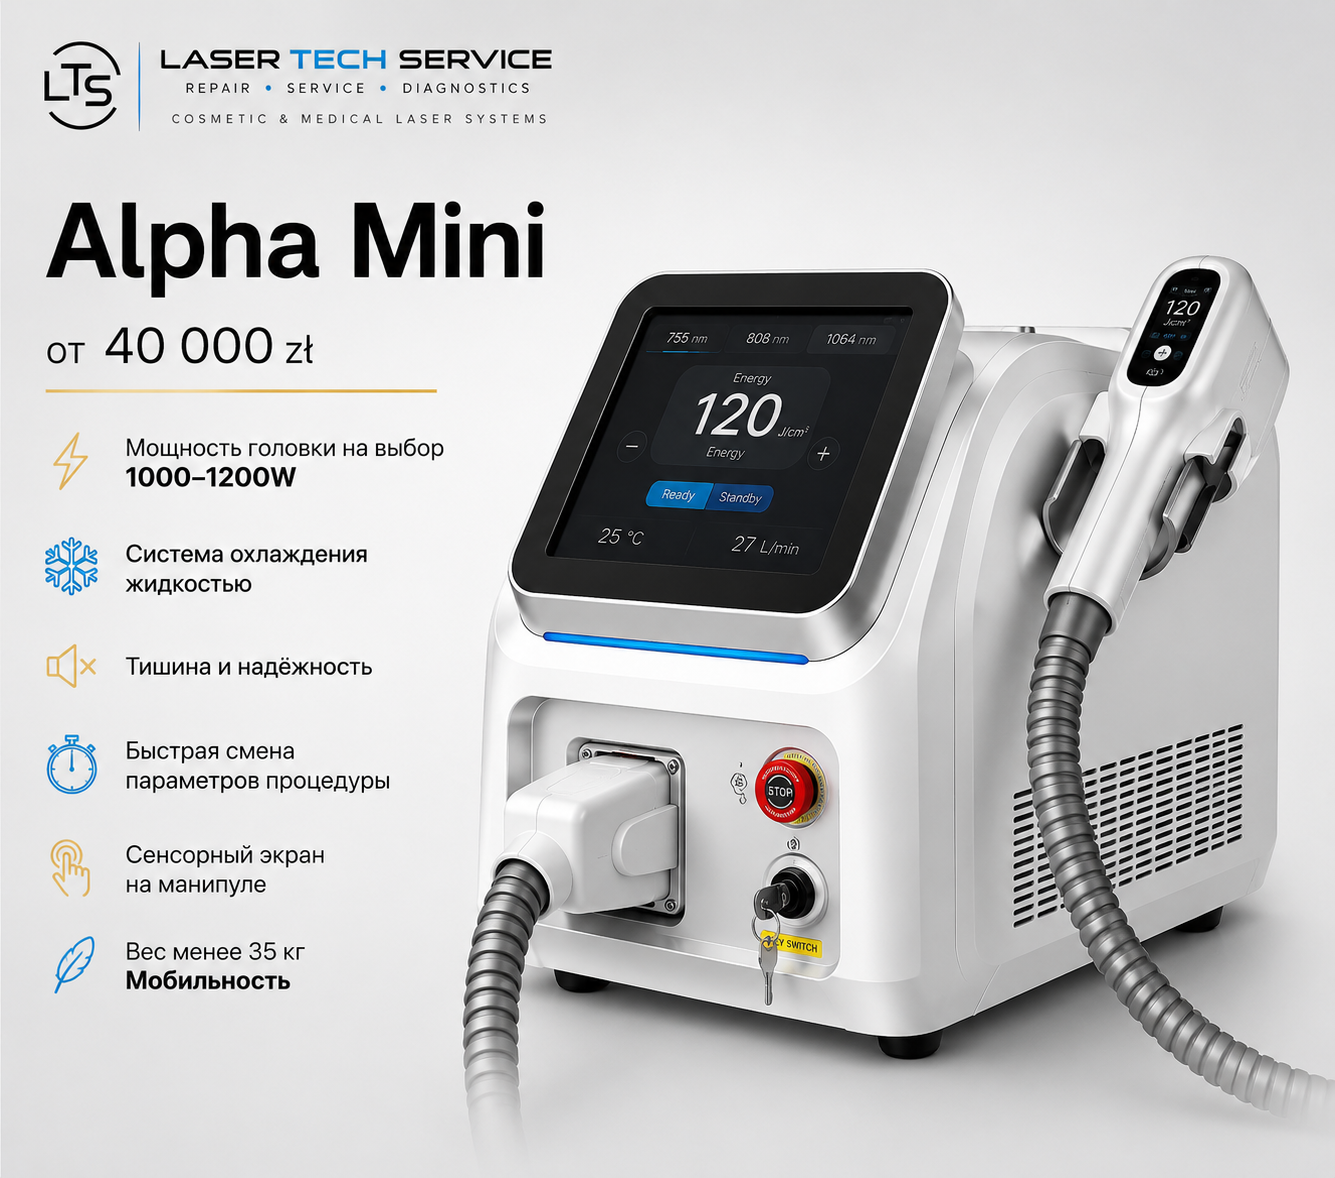
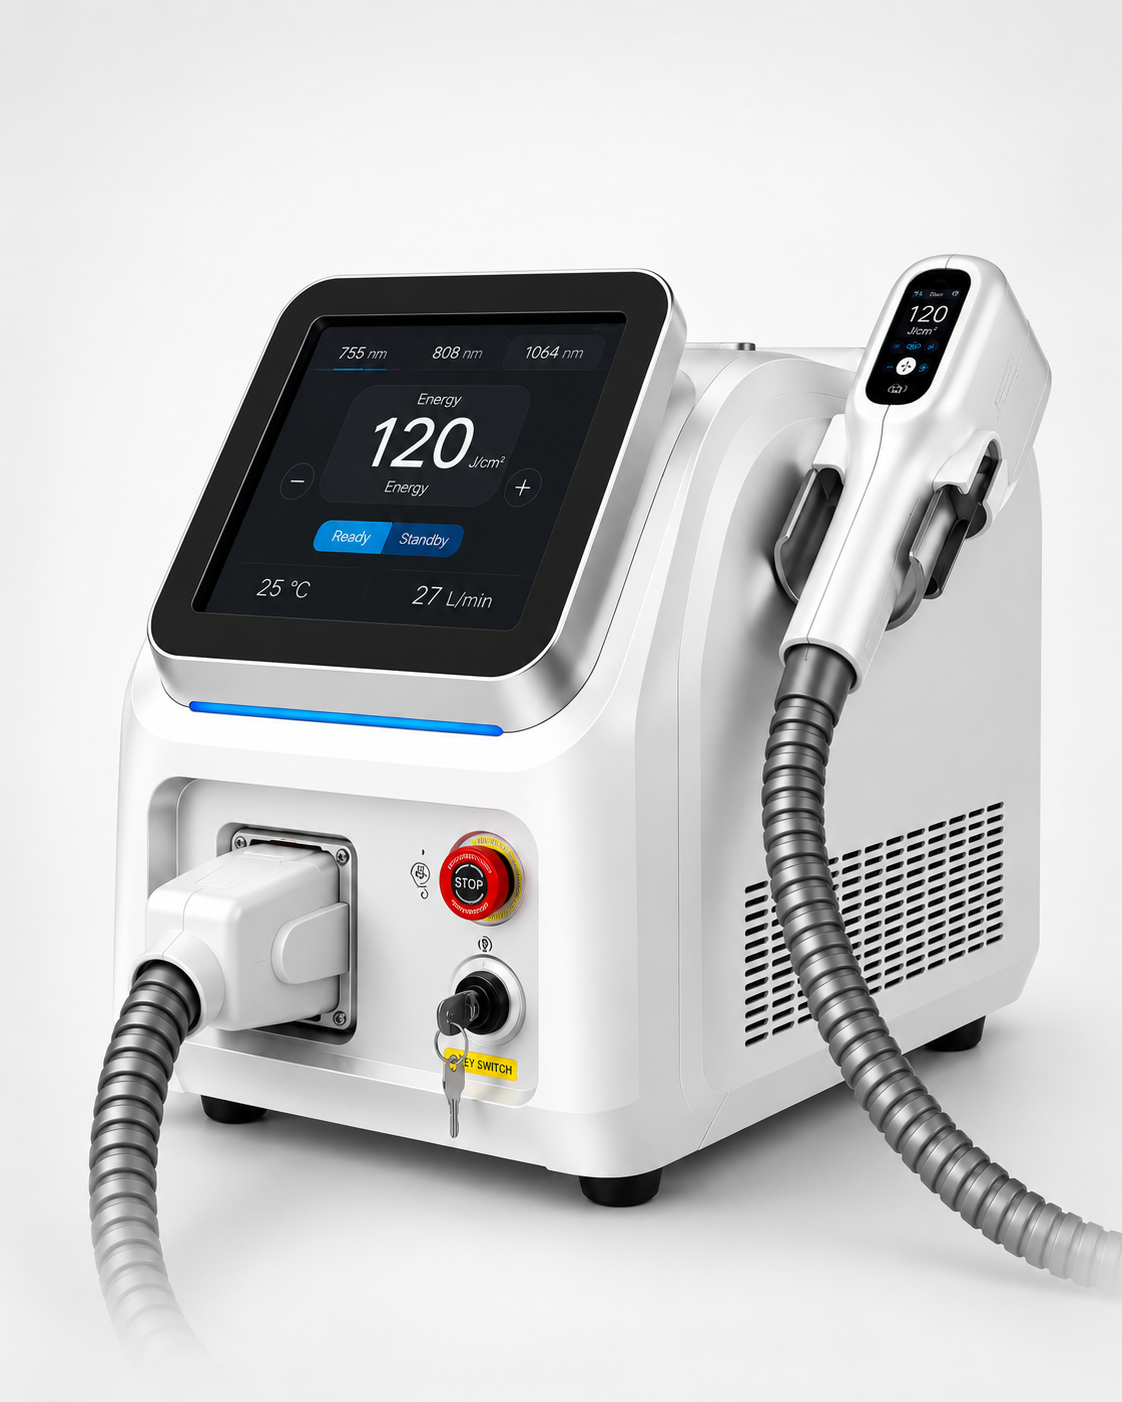
Update homepage hero with real product images

diff --git a/index.html b/index.html
@@ -334,7 +334,7 @@
               <article class="hero-product active">
                 <div class="hero-product-image">
                   <img
-                    src="assets/img/laser-diodowy.png"
+                    src="assets/img/nowe/alpha-mini.webp"
                     alt="Profesjonalne urządzenia kosmetyczne LTS Market"
                     width="760"
                     height="760"
@@ -355,7 +355,7 @@
               <article class="hero-product">
                 <div class="hero-product-image">
                   <img
-                    src="assets/img/nd-yag.png"
+                    src="assets/img/nowe/lumos-main.webp"
                     alt="Urządzenia kosmetyczne dla branży beauty"
                     width="760"
                     height="760"
@@ -377,7 +377,7 @@
               <article class="hero-product">
                 <div class="hero-product-image">
                   <img
-                    src="assets/img/ipl.png"
+                    src="assets/img/nowe/ray.webp"
                     alt="Leasing urządzeń kosmetycznych LTS Market"
                     width="760"
                     height="760"
